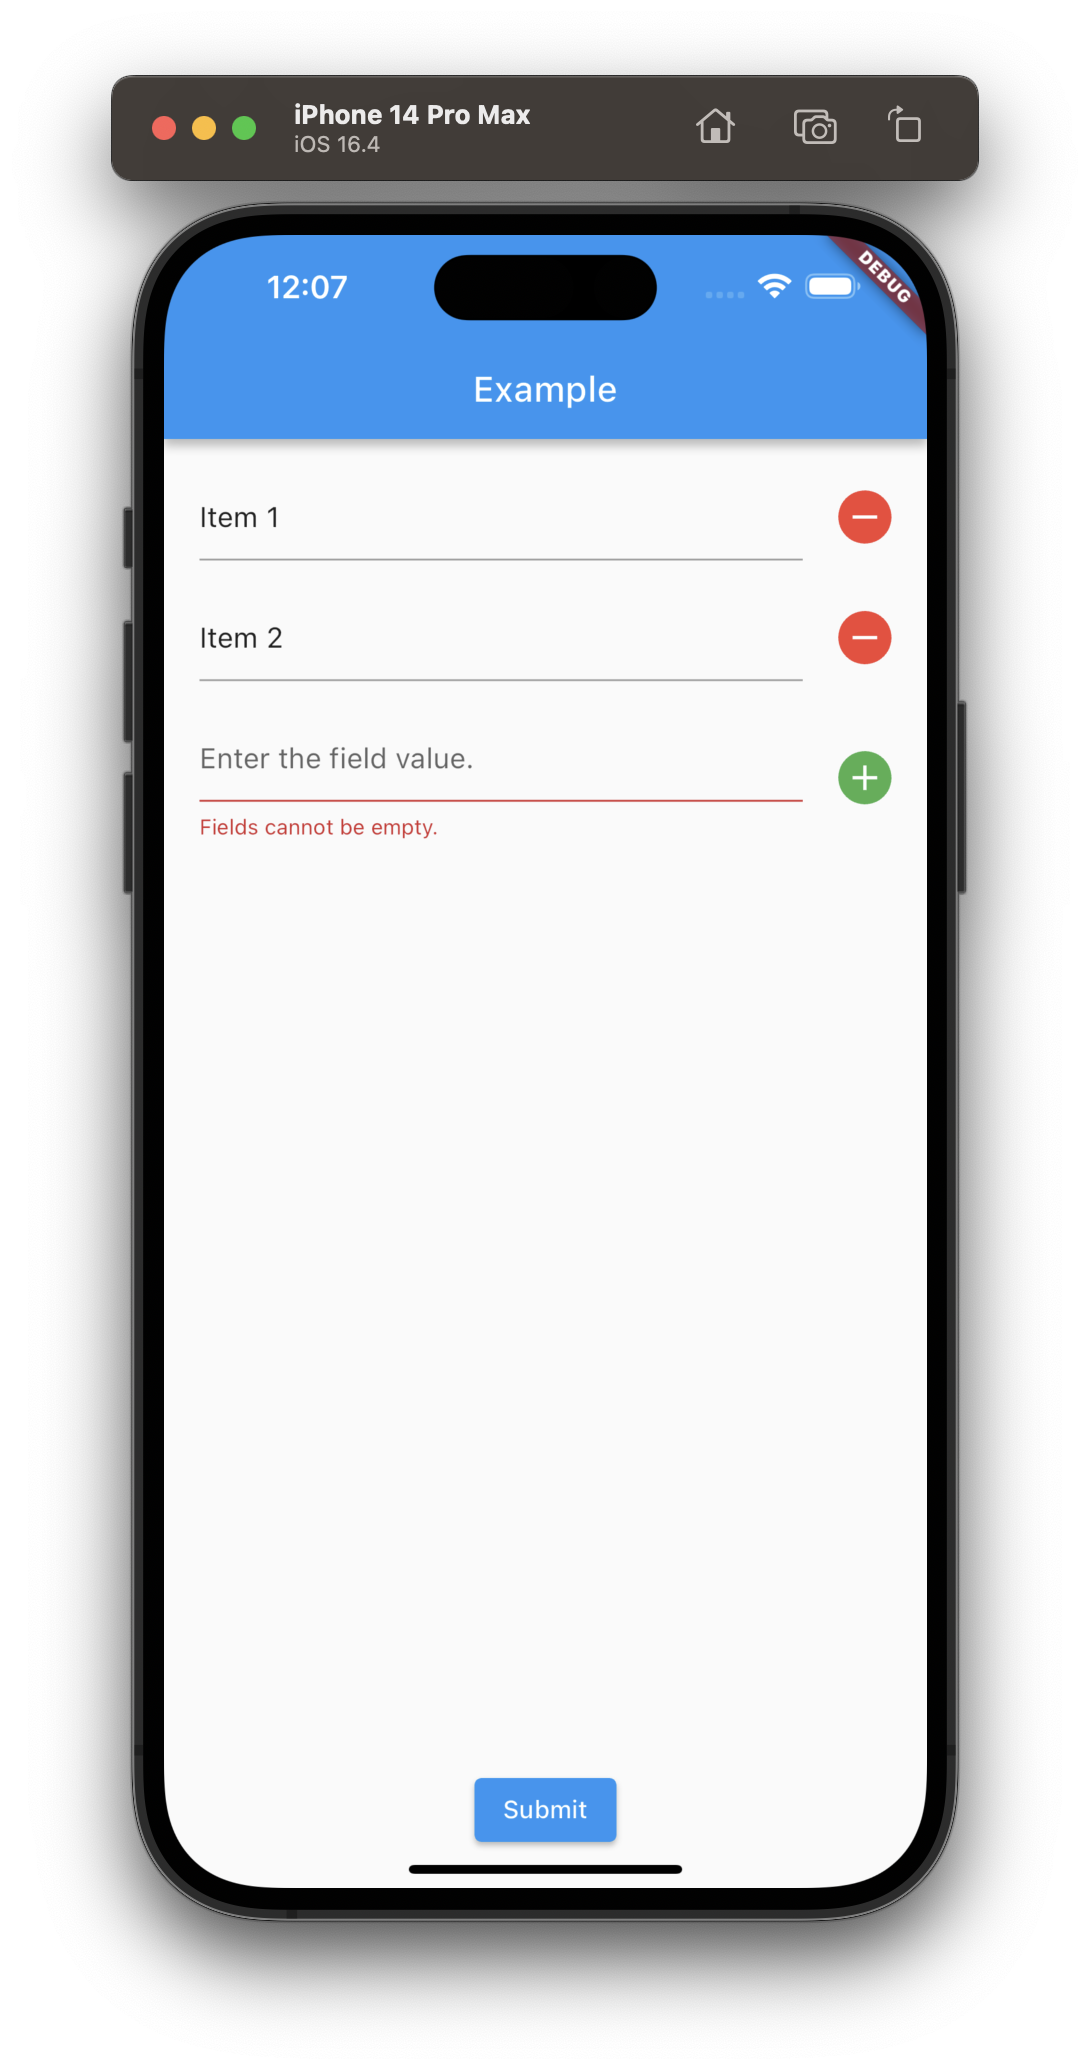
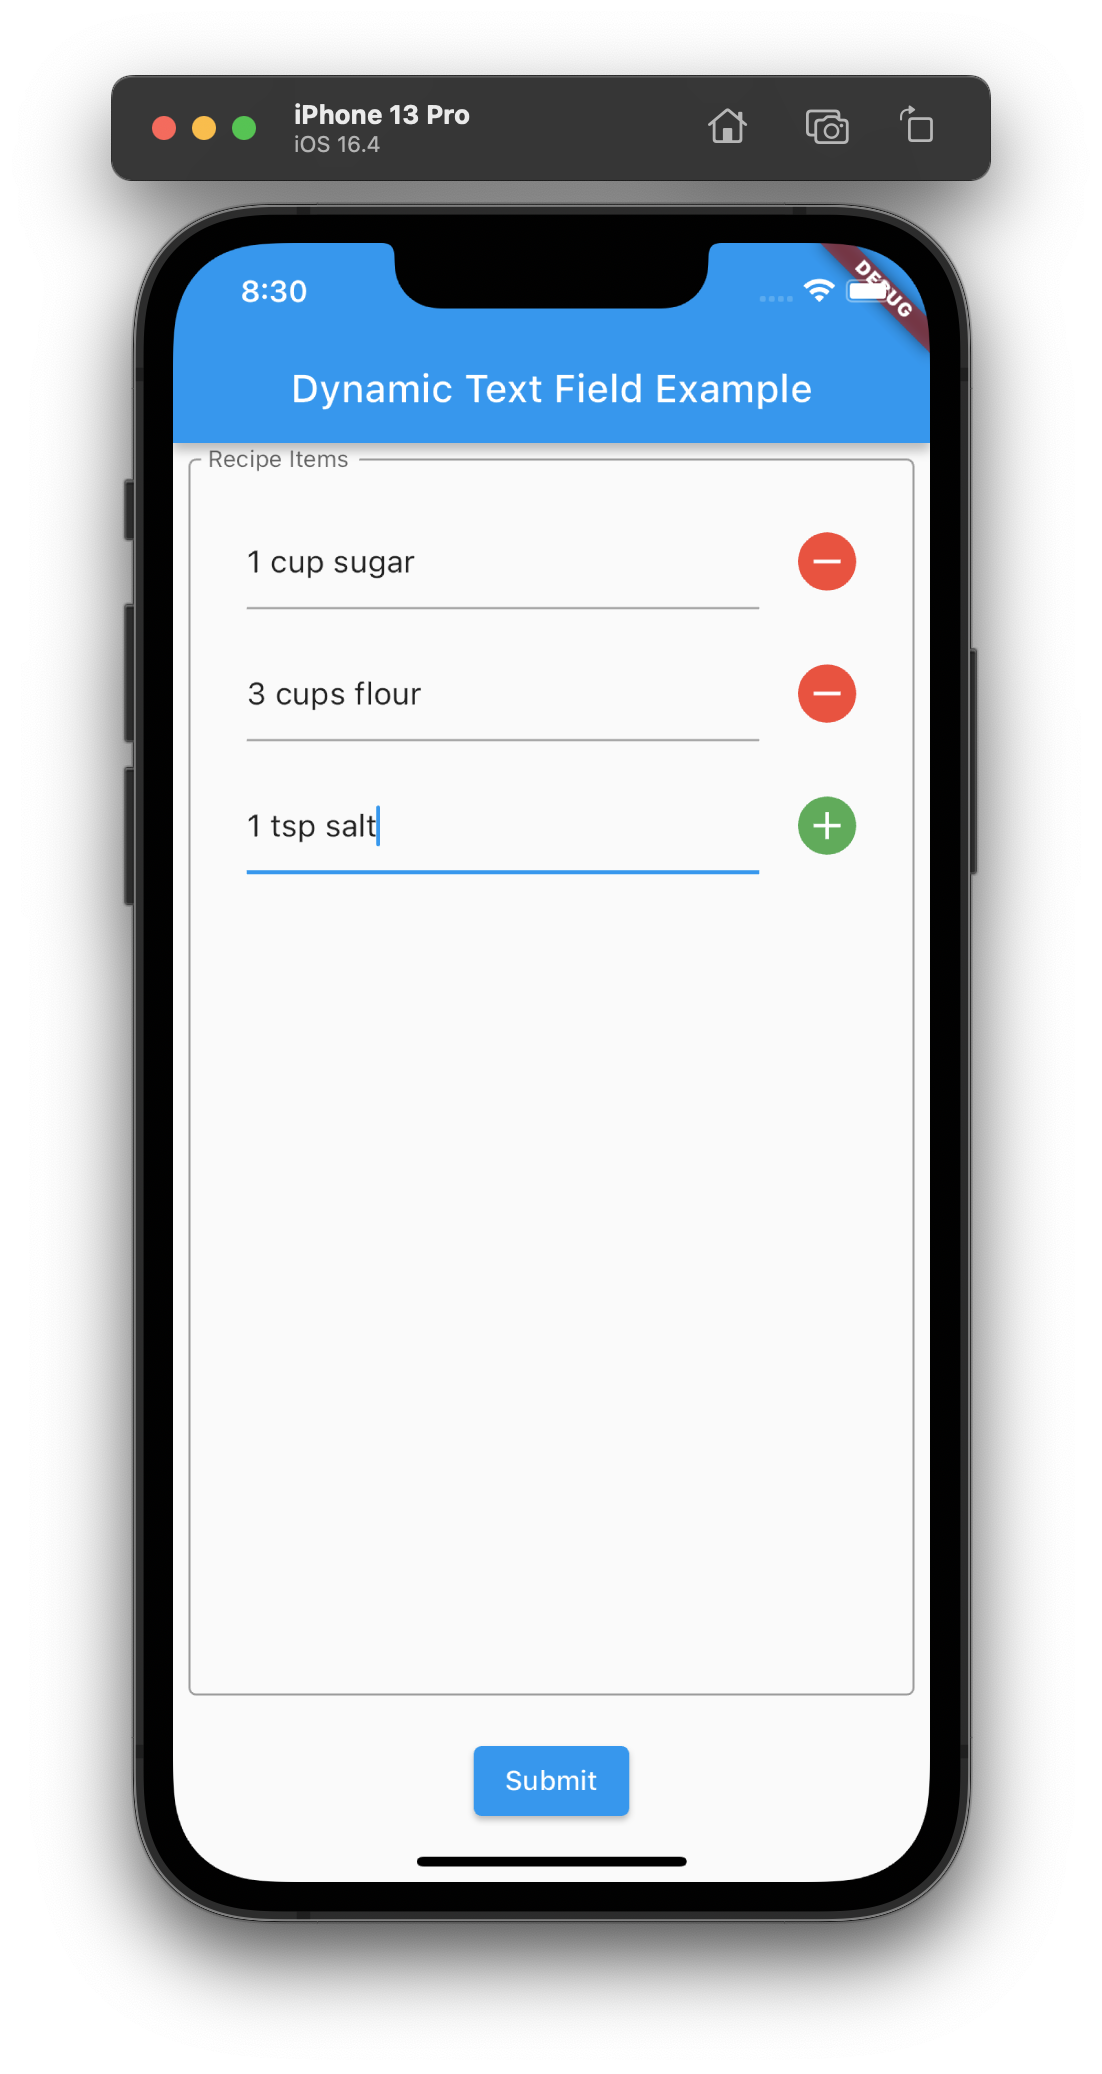
updated.

Changed region(s): [[0.0936, 0.0309, 0.9046, 0.9266], [0.655, 0.0309, 0.6862, 0.0618]]

diff --git a/lib/dynamic-text-field/dynamic_text_field.dart b/lib/dynamic-text-field/dynamic_text_field.dart
@@ -33,29 +33,36 @@ class _DynamicTextFieldState extends State<DynamicTextField> {
             field.didChange(fieldValuesList);
           }
 
-          return ListView.separated(
-            itemCount: fieldValuesList.length,
-            padding: const EdgeInsets.all(20),
-            itemBuilder: (_, index) => Row(
-              children: [
-                Expanded(
-                  child: FormBuilderTextField(
-                    name: UniqueKey().toString(),
-                    initialValue: fieldValuesList[index],
-                    onChanged: (value) => onChanged(index, value),
-                    validator: FormBuilderValidators.compose([
-                      FormBuilderValidators.required(),
-                    ]),
-                  ),
+          return InputDecorator(
+              decoration: InputDecoration(
+                labelText: widget.name,
+                border: const OutlineInputBorder(),
+                contentPadding: const EdgeInsets.all(10.0),
+                errorText: field.errorText,
+              ),
+              child: ListView.separated(
+                itemCount: fieldValuesList.length,
+                padding: const EdgeInsets.all(20),
+                itemBuilder: (_, index) => Row(
+                  children: [
+                    Expanded(
+                      child: FormBuilderTextField(
+                        name: UniqueKey().toString(),
+                        initialValue: fieldValuesList[index],
+                        onChanged: (value) => onChanged(index, value),
+                        validator: FormBuilderValidators.compose([
+                          FormBuilderValidators.required(),
+                        ]),
+                      ),
+                    ),
+                    const SizedBox(width: 20),
+                    DynamicTextFieldButton(
+                        isAdd: (index == fieldValuesList.length - 1),
+                        onTap: () => onTap(index)),
+                  ],
                 ),
-                const SizedBox(width: 20),
-                DynamicTextFieldButton(
-                    isAdd: (index == fieldValuesList.length - 1),
-                    onTap: () => onTap(index)),
-              ],
-            ),
-            separatorBuilder: (_, __) => const SizedBox(height: 20),
-          );
+                separatorBuilder: (_, __) => const SizedBox(height: 20),
+              ));
         });
   }
 }

diff --git a/lib/recipe_form.dart b/lib/recipe_form.dart
@@ -6,7 +6,7 @@ import 'dynamic-text-field/dynamic_text_field.dart';
 
 class RecipeForm extends StatelessWidget {
   const RecipeForm({super.key});
-  final String formName = 'Recipe List';
+  final String fieldName = 'Recipe Items';
 
   @override
   Widget build(BuildContext context) {
@@ -14,16 +14,19 @@ class RecipeForm extends StatelessWidget {
 
     void onPressed() {
       if (formKey.currentState!.saveAndValidate()) {
-        print(formKey.currentState!.value[formName]);
+        print(formKey.currentState!.value[fieldName]);
       }
     }
 
     return FormBuilder(
       key: formKey,
-      child: Column(children: [
-        Expanded(child: DynamicTextField(name: formName)),
-        SubmitButton(onPressed: onPressed)
-      ]),
+      child: Padding(
+        padding: const EdgeInsets.all(8.0),
+        child: Column(children: [
+          Expanded(child: DynamicTextField(name: fieldName)),
+          SubmitButton(onPressed: onPressed)
+        ]),
+      ),
     );
   }
 }

diff --git a/README.md b/README.md
@@ -1,16 +1,28 @@
 # flutter_dynamic_text_field
 
-Sample app illustrating how to create a dynamic set of text fields as part of a form.
+This sample app illustrates two Flutter form concepts:
 
-You can add and delete text fields dynamically as part of filling out the form. 
+1. How to create a dynamic (expandable and contractable) set of text fields within a form.
+2. How to create a custom form field in [Flutter Form Builder](https://pub.dev/packages/flutter_form_builder).
 
-The example includes a validator to check that all fields have values upon pressing the submit button.
+This example includes a validator to check that all fields have values upon pressing the submit button.
 
-Here's an example screenshot showing the display after two items have been entered and an attempt is made to submit the form with an empty text field.
+Here's an example screenshot showing the display after three items have been entered.
 
 <img width="300px" src="README.png">
 
-* Recipe list
-* Single child scroll view
-* custom validator
-* move submit out of directory.
+### Creating a dynamic set of text fields
+
+This is accomplished via the Stateful widget called DynamicTextField.  It maintains a state variable called fieldValuesList, which is a list of strings. Each time a character is entered into a field, or the button is pressed to add or subtract a text field, this state variable is updated.
+
+This means that the fieldValuesList has a continuously up-to-date representation of the values entered into the set of text fields, as well as the number of text fields displayed in the form. 
+
+### Creating a custom Form Builder field
+
+A helpful overview of this process is available in [Building a custom field with FormBuilder Flutter package](https://medium.com/@danvickmiller/building-a-custom-flutter-form-builder-field-c67e2b2a27f4).
+
+In the case of this sample app, it involved having the DynamicTextField widget return a FormBuilderField. 
+
+Then, whenever the state of fieldValuesList was changed, the widget invoked field.didChange() with the fieldValuesList. This communicated to the FormBuilder the up-to-date state of the form field.
+
+Finally, when the submit button is pressed, the form is validated.  The sample system attaches a validator to each text field to ensure that no fields are empty. If all the fields are non-empty, then the list of string values are printed. Otherwise, the form will indicate an error under the offending text field.
